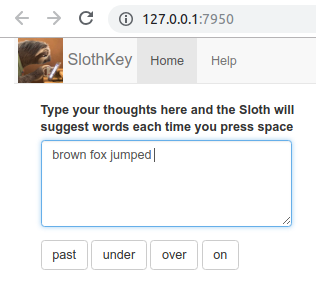
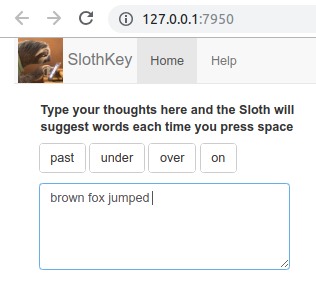
Changes in IU  -Suggestions buttons are moved above text input field to improve UX on mobile devices.  -All files permissions changed to 755 by the system because of some issue with Linux+NTFS

Changed region(s): [[0.1139, 0.4755, 0.9399, 0.951]]

diff --git a/SlothKey/www/help.html b/SlothKey/www/help.html
@@ -98,6 +98,9 @@ img {
 button.code-folding-btn:focus {
   outline: none;
 }
+summary {
+  display: list-item;
+}
 </style>
 
 
@@ -105,14 +108,74 @@ button.code-folding-btn:focus {
 <div class="container-fluid main-container">
 
 <!-- tabsets -->
+
+<style type="text/css">
+.tabset-dropdown > .nav-tabs {
+  display: inline-table;
+  max-height: 500px;
+  min-height: 44px;
+  overflow-y: auto;
+  background: white;
+  border: 1px solid #ddd;
+  border-radius: 4px;
+}
+
+.tabset-dropdown > .nav-tabs > li.active:before {
+  content: "";
+  font-family: 'Glyphicons Halflings';
+  display: inline-block;
+  padding: 10px;
+  border-right: 1px solid #ddd;
+}
+
+.tabset-dropdown > .nav-tabs.nav-tabs-open > li.active:before {
+  content: "";
+  border: none;
+}
+
+.tabset-dropdown > .nav-tabs.nav-tabs-open:before {
+  content: "";
+  font-family: 'Glyphicons Halflings';
+  display: inline-block;
+  padding: 10px;
+  border-right: 1px solid #ddd;
+}
+
+.tabset-dropdown > .nav-tabs > li.active {
+  display: block;
+}
+
+.tabset-dropdown > .nav-tabs > li > a,
+.tabset-dropdown > .nav-tabs > li > a:focus,
+.tabset-dropdown > .nav-tabs > li > a:hover {
+  border: none;
+  display: inline-block;
+  border-radius: 4px;
+}
+
+.tabset-dropdown > .nav-tabs.nav-tabs-open > li {
+  display: block;
+  float: none;
+}
+
+.tabset-dropdown > .nav-tabs > li {
+  display: none;
+}
+</style>
+
 <script>
 $(document).ready(function () {
   window.buildTabsets("TOC");
 });
+
+$(document).ready(function () {
+  $('.tabset-dropdown > .nav-tabs > li').click(function () {
+    $(this).parent().toggleClass('nav-tabs-open')
+  });
+});
 </script>
 
 <!-- code folding -->
-
 
 
 
@@ -135,7 +198,7 @@ $(document).ready(function () {
 SlothKey is an app that suggests you words as you type so that you can type less and write more!<br />
 
 <div class="columns-2">
[2 lines of base64/hex data omitted]
 If neither of the suggestions fit you, just continue on typing.</p>
 </div>
 <p>If you’ve spent some time playing around with the app, you might be curious, how does it make such good suggestions? There must be some quite complicated machine leaning algorithms in use here!? Well, no. The whole app relies on a lot of training data and 2 simple ideas: n-grams and stupid backoff.</p>

diff --git a/SlothKey/index.html b/SlothKey/index.html
@@ -65,6 +65,10 @@
       font-style: italic;
     }
 
+    summary {
+      display: list-item;
+    }
+
     slides > slide {
       -webkit-transition: all 0.4s ease-in-out;
       -moz-transition: all 0.4s ease-in-out;
@@ -121,7 +125,7 @@
 SlothKey is an app that suggests you words as you type so that you can type less and write more!<br/>
 
 <div class="columns-2">
[2 lines of base64/hex data omitted]
 
 <p>If you&#39;ve spent some time playing around with the app, you might be curious, how does it make such good suggestions? There must be some quite complicated machine leaning algorithms in use here!? Well, no. The whole app relies on a lot of training data and 2 simple ideas: n-grams and stupid backoff.</p>
 
